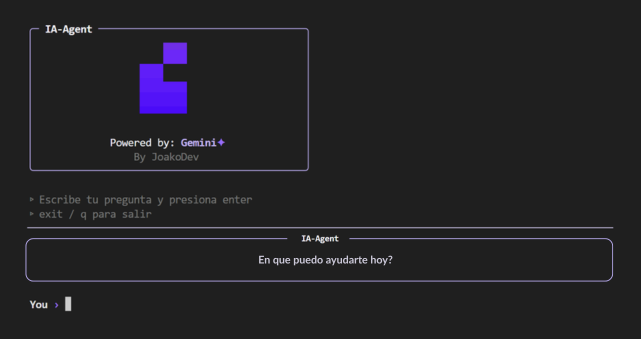
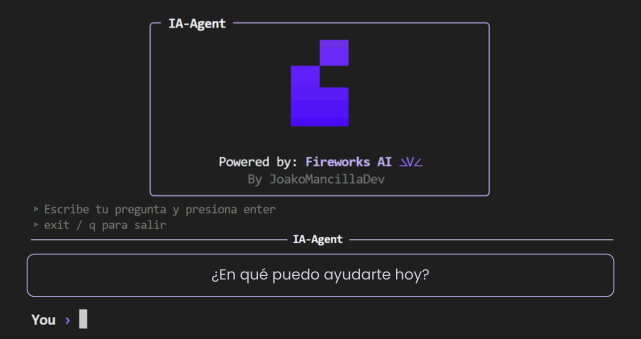
chore: cambios menores en proyecto especifico (agente IA)

diff --git a/portafolio_jm/src/componentes/Proyectos.jsx b/portafolio_jm/src/componentes/Proyectos.jsx
@@ -28,18 +28,18 @@ export const Proyectos = () => {
     HTML: 'text-orange-400 border-orange-500 bg-orange-900/30',
     Unity: 'text-neutral-200 border-neutral-400 bg-neutral-900/50',
     'C#': 'text-violet-400 border-violet-500 bg-violet-900/30',
-    Langchain: 'text-teal-400 border-teal-500 bg-teal-900/30',
-    LLM: 'text-purple-400 border-purple-500 bg-purple-900/30',
+    LangChain: 'text-teal-400 border-teal-500 bg-teal-900/30',
+    LangGraph: 'text-purple-400 border-purple-500 bg-purple-900/30',
     RAG: 'text-indigo-400 border-indigo-500 bg-indigo-900/30',
   };
 
   const proyectos = [
     {
       id: 1,
-      title: 'Agente de IA',
+      title: 'Sistema de Agentes IA',
       image: Agente,
-      description: 'Agente de IA basado en el LLM Gemini, con implementacion de Tools, Memory y futura implementacion de RAG',
-      techs: ['Python', 'Langchain','LLM','RAG'],
+      description: 'Agente de IA integrado en arquitectura multiagente, construido sobre Fireworks LLM con capacidades de Tools, Memory persistente y RAG para recuperación de contexto enriquecido',
+      techs: ['Python', 'LangChain','LangGraph','RAG'],
       link: 'https://github.com/JoakoMancilla/IA-Agent'
     },
     {
